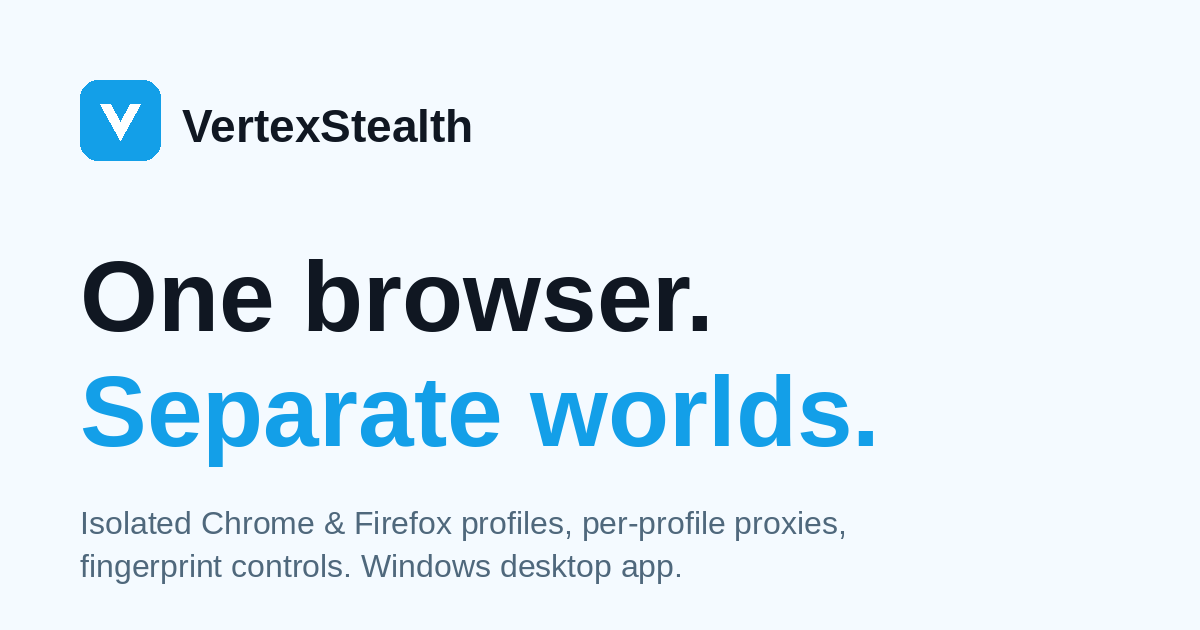
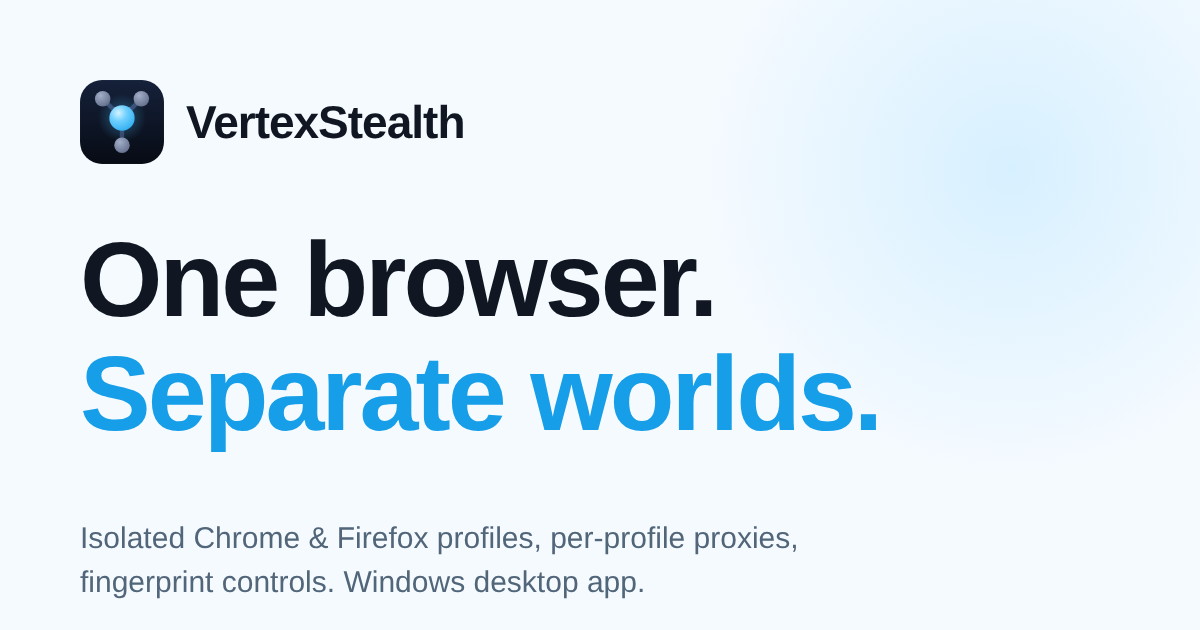
Add files via upload

diff --git a/src/styles.css b/src/styles.css
@@ -1,5 +1,5 @@
 :root{color-scheme:light;--ink:#101722;--muted:#5d6a7c;--muted2:#7b8798;--blue:#169ee8;--blue2:#0875c9;--pale:#eaf7ff;--pale2:#f4faff;--line:#dfe8f0;--white:#fff;--black:#090d14;--green:#13886d;--shadow:0 18px 60px rgba(18,55,90,.10);--max:1180px}
-*{box-sizing:border-box}html{scroll-behavior:smooth;scroll-padding-top:88px}body{margin:0;background:#fff;color:var(--ink);font-family:Inter,ui-sans-serif,system-ui,-apple-system,BlinkMacSystemFont,"Segoe UI",sans-serif;line-height:1.55}a{color:inherit;text-decoration:none}button,input{font:inherit}.wrap{width:min(var(--max),calc(100% - 48px));margin:auto}.announcement{background:#101722;color:#dceaf5;font-size:12px;text-align:center;padding:9px 16px}.announcement strong{color:#7dd5ff}.announcement a{margin-left:8px;color:#7dd5ff;font-weight:750}.header{height:76px;position:sticky;top:0;z-index:20;background:rgba(255,255,255,.94);backdrop-filter:blur(16px);border-bottom:1px solid #e7edf3}.nav{height:100%;display:flex;align-items:center;justify-content:space-between;gap:25px}.brand{display:flex;align-items:center;gap:10px;font-size:20px;font-weight:850;letter-spacing:-.7px;white-space:nowrap}.brandmark{height:36px;width:36px;display:grid;place-items:center;border-radius:11px;color:#fff;background:linear-gradient(140deg,#35c2ff,#0876cb);box-shadow:0 6px 15px #168fd533;font-weight:900}.brandname span{color:var(--blue2)}.links{display:flex;align-items:center;gap:27px;color:#3d4a5c;font-size:13px;font-weight:650}.links a:hover,.footer a:hover{color:var(--blue2)}.navright{display:flex;align-items:center;gap:15px;font-size:13px;font-weight:750}.login{color:#36465a}.btn{display:inline-flex;align-items:center;justify-content:center;gap:9px;padding:13px 18px;border-radius:10px;border:1px solid transparent;font-size:13px;font-weight:800;transition:.2s;cursor:pointer;white-space:nowrap}.btn:hover{transform:translateY(-2px)}.primary{color:#fff;background:linear-gradient(120deg,#20b7f5,#0875c9);box-shadow:0 8px 22px #148edb2b}.primary:hover{filter:brightness(1.04)}.outline{background:#fff;border-color:#cddbe8;color:#1c2b3b}.outline:hover{border-color:#78bfea;background:#f8fcff}.menu{display:none;border:1px solid var(--line);background:white;border-radius:9px;padding:8px 11px}
+*{box-sizing:border-box}html{scroll-behavior:smooth;scroll-padding-top:88px}body{margin:0;background:#fff;color:var(--ink);font-family:Inter,ui-sans-serif,system-ui,-apple-system,BlinkMacSystemFont,"Segoe UI",sans-serif;line-height:1.55}a{color:inherit;text-decoration:none}button,input{font:inherit}.wrap{width:min(var(--max),calc(100% - 48px));margin:auto}.announcement{background:#101722;color:#dceaf5;font-size:12px;text-align:center;padding:9px 16px}.announcement strong{color:#7dd5ff}.announcement a{margin-left:8px;color:#7dd5ff;font-weight:750}.header{height:76px;position:sticky;top:0;z-index:20;background:rgba(255,255,255,.94);backdrop-filter:blur(16px);border-bottom:1px solid #e7edf3}.nav{height:100%;display:flex;align-items:center;justify-content:space-between;gap:25px}.brand{display:flex;align-items:center;gap:10px;font-size:20px;font-weight:850;letter-spacing:-.7px;white-space:nowrap}.brandmark{height:36px;width:36px;display:block;border-radius:11px;box-shadow:0 6px 15px #0b182a33;overflow:hidden;flex:0 0 auto}.brandmark img{display:block;width:100%;height:100%}.brandname span{color:var(--blue2)}.links{display:flex;align-items:center;gap:27px;color:#3d4a5c;font-size:13px;font-weight:650}.links a:hover,.footer a:hover{color:var(--blue2)}.navright{display:flex;align-items:center;gap:15px;font-size:13px;font-weight:750}.login{color:#36465a}.btn{display:inline-flex;align-items:center;justify-content:center;gap:9px;padding:13px 18px;border-radius:10px;border:1px solid transparent;font-size:13px;font-weight:800;transition:.2s;cursor:pointer;white-space:nowrap}.btn:hover{transform:translateY(-2px)}.primary{color:#fff;background:linear-gradient(120deg,#20b7f5,#0875c9);box-shadow:0 8px 22px #148edb2b}.primary:hover{filter:brightness(1.04)}.outline{background:#fff;border-color:#cddbe8;color:#1c2b3b}.outline:hover{border-color:#78bfea;background:#f8fcff}.menu{display:none;border:1px solid var(--line);background:white;border-radius:9px;padding:8px 11px}
 .hero{position:relative;overflow:hidden;padding:76px 0 62px;background:radial-gradient(ellipse at 80% 30%,#d8f2ff 0,transparent 43%),linear-gradient(180deg,#f7fbff 0%,#fff 100%)}.hero-grid{display:grid;grid-template-columns:1.02fr .98fr;gap:38px;align-items:center}.eyebrow{display:inline-flex;align-items:center;gap:8px;border-radius:99px;padding:7px 12px;background:#e5f6ff;border:1px solid #c5eaff;color:#0875bb;text-transform:uppercase;font-size:10px;letter-spacing:.13em;font-weight:900}.pulse{width:7px;height:7px;background:#1bb58b;border-radius:50%;box-shadow:0 0 0 4px #1bb58b18}h1{font-size:clamp(43px,5vw,67px);letter-spacing:-.065em;line-height:1.02;margin:22px 0 22px;max-width:650px}h1 .blue{color:#0785d2}.lead{max-width:590px;color:#566579;font-size:17px;line-height:1.8}.actions{display:flex;gap:12px;flex-wrap:wrap;margin:28px 0 17px}.fineprint{font-size:11px;color:#78879a}.hero-proof{display:flex;gap:18px;flex-wrap:wrap;margin-top:25px;color:#596a7e;font-size:11px}.proof-item{display:flex;align-items:center;gap:7px}.check{color:#168b70;font-weight:900}.mock-area{position:relative;min-height:450px;display:grid;place-items:center}.orb{position:absolute;width:380px;height:380px;border-radius:50%;background:radial-gradient(circle,#bcecff 0%,#dff6ff 45%,transparent 72%)}.app{position:relative;width:100%;max-width:550px;border:1px solid #d4e2ee;background:#fff;border-radius:16px;box-shadow:0 32px 80px #1e4f741c;overflow:hidden;transform:rotateY(-2deg) rotateX(1deg)}.appbar{height:47px;display:flex;align-items:center;gap:7px;padding:0 15px;border-bottom:1px solid #e6edf4;background:#fbfdff}.dot{width:7px;height:7px;background:#d0dbe5;border-radius:50%}.apptitle{font-size:10px;color:#6b7b8e;margin-left:8px;font-weight:750;letter-spacing:.07em}.appbody{display:grid;grid-template-columns:145px 1fr;min-height:300px}.sidebar{padding:17px 10px;background:#f8fbfe;border-right:1px solid #e8eef4}.side-label{font-size:9px;text-transform:uppercase;letter-spacing:.1em;color:#96a3b2;font-weight:850;margin:0 8px 10px}.sideitem{display:flex;align-items:center;gap:8px;font-size:10px;color:#6d7c8e;padding:9px 8px;border-radius:7px;margin-bottom:3px}.sideitem.active{background:#e4f5ff;color:#0876bd;font-weight:800}.sideicon{height:17px;width:17px;display:grid;place-items:center;border-radius:5px;background:#e8eef5;color:#63778b;font-size:10px}.sideitem.active .sideicon{background:#c5eaff;color:#0876bd}.work{padding:17px 15px}.workhead{display:flex;justify-content:space-between;align-items:center;margin-bottom:15px;gap:10px}.workhead strong{font-size:13px;letter-spacing:-.2px}.small-btn{font-size:9px;padding:7px 9px;border-radius:6px;background:#0e95df;color:white;font-weight:800}.filter{display:flex;gap:5px;margin-bottom:11px}.filter span{font-size:9px;padding:5px 8px;border-radius:6px;background:#f3f7fa;color:#718196}.filter span:first-child{background:#e5f5ff;color:#0878bf;font-weight:800}.profrow{display:grid;grid-template-columns:25px 1fr auto;align-items:center;gap:8px;padding:10px 8px;border:1px solid #e6edf3;border-radius:8px;margin-bottom:7px}.proficon{height:25px;width:25px;display:grid;place-items:center;border-radius:7px;background:#e2f5ff;color:#0781c8;font-size:10px;font-weight:900}.proficon.purple{background:#f0eaff;color:#8161c7}.proficon.green{background:#e1f8ef;color:#138b68}.profname{font-size:10px;font-weight:800;display:block}.profmeta{font-size:8px;color:#8a98a8;display:block;margin-top:2px}.status{font-size:8px;border-radius:99px;padding:4px 6px;background:#e5f8f0;color:#138365;font-weight:800}.appfoot{border-top:1px solid #e6edf3;padding:10px 14px;display:flex;justify-content:space-between;color:#8795a5;font-size:9px}.floating{position:absolute;right:-8px;bottom:20px;background:#fff;border:1px solid #d7e7f3;border-radius:12px;padding:13px 15px;box-shadow:0 14px 35px #234b681b;font-size:10px}.floating b{display:block;font-size:12px;margin-bottom:3px}.floating span{color:#178b6c}
 .logobar{border-block:1px solid #e9eff4;padding:22px 0;background:white}.logobar .wrap{display:flex;justify-content:space-between;align-items:center;gap:22px;flex-wrap:wrap}.logotext{font-size:11px;color:#8290a0}.logo-pill{display:flex;align-items:center;gap:8px;color:#526174;font-size:12px;font-weight:750}.logo-symbol{height:25px;width:25px;display:grid;place-items:center;border:1px solid #dbe7f0;background:#f6fbff;color:#168dd0;border-radius:7px;font-size:12px}
 .section{padding:88px 0}.section-head{text-align:center;max-width:740px;margin:0 auto 43px}.kicker{font-size:11px;letter-spacing:.16em;text-transform:uppercase;color:#087fc5;font-weight:900}.section h2{font-size:clamp(31px,4vw,46px);letter-spacing:-.055em;line-height:1.1;margin:12px 0 15px}.section-head p{font-size:15px;color:#667588;line-height:1.8;margin:0}.features{display:grid;grid-template-columns:repeat(3,1fr);gap:17px}.feature{border:1px solid #e0e9f1;border-radius:15px;padding:25px;background:linear-gradient(150deg,#fff,#f9fcff);min-height:218px;transition:.2s}.feature:hover{border-color:#a9dcf7;box-shadow:0 12px 32px #1d67920c;transform:translateY(-3px)}.feature-icon{height:43px;width:43px;border-radius:12px;background:#e7f6ff;color:#0787d1;display:grid;place-items:center;font-size:21px;font-weight:800;margin-bottom:20px}.feature h3{font-size:16px;margin:0 0 8px;letter-spacing:-.2px}.feature p{font-size:13px;color:#6b798b;line-height:1.75;margin:0}.textlink{display:inline-flex;align-items:center;gap:7px;color:#087fc5;font-weight:850;font-size:12px;margin-top:18px}.pale{background:#f5faff;border-block:1px solid #e6f0f7}.split{display:grid;grid-template-columns:1fr 1fr;align-items:center;gap:55px}.split .section-head{text-align:left;margin:0 0 20px}.split-copy{color:#667588;font-size:15px;line-height:1.85}.bullets{list-style:none;padding:0;margin:23px 0 0;display:grid;gap:13px}.bullets li{display:flex;gap:10px;font-size:13px;color:#435267}.tick{width:21px;height:21px;flex:0 0 21px;border-radius:50%;display:grid;place-items:center;background:#def7ed;color:#0e8b69;font-size:11px;font-weight:900}.settings-card{border:1px solid #d9e5ef;border-radius:17px;box-shadow:var(--shadow);background:#fff;overflow:hidden}.settings-head{padding:18px 20px;border-bottom:1px solid #e6edf3;display:flex;justify-content:space-between;align-items:center}.settings-head strong{font-size:13px}.labelpill{font-size:9px;color:#0879bd;background:#e9f7ff;padding:5px 8px;border-radius:99px;font-weight:900}.setting-row{display:flex;justify-content:space-between;gap:20px;padding:15px 20px;border-bottom:1px solid #eef2f6;font-size:11px}.setting-row span{color:#788698}.setting-row b{text-align:right;font-weight:750}.setting-row:last-of-type{border-bottom:0}.settings-note{margin:15px;padding:12px;border-radius:9px;background:#f1faff;color:#597286;font-size:10px;line-height:1.6}

diff --git a/scripts/build.js b/scripts/build.js
@@ -112,7 +112,7 @@ const header = `<a class="skip" href="#top">Skip to content</a>
 <div class="announcement">A focused workspace for browser profile management. <strong>Meet VertexStealth.</strong> <a href="/features">Explore the platform →</a></div>
 <header class="header">
  <div class="wrap nav">
-  <a class="brand" href="/" aria-label="VertexStealth home"><span class="brandmark">V</span><span class="brandname">Vertex<span>Stealth</span></span></a>
+  <a class="brand" href="/" aria-label="VertexStealth home"><span class="brandmark"><img src="/logo.svg" alt="" width="36" height="36"></span><span class="brandname">Vertex<span>Stealth</span></span></a>
   <button class="menu" id="menu" aria-expanded="false" aria-controls="links">Menu</button>
   <nav class="links" id="links" aria-label="Main navigation">
    <a href="/features">Features</a><a href="/antidetect-browser">Antidetect browser</a><a href="/multi-profile-management">Multi-profile</a><a href="/pricing">Pricing</a><a href="/faq">FAQ</a><a href="/blog">Blog</a><a class="m-only" href="/download">Download</a><a class="m-only" href="/login" data-auth-link>Sign in</a>
@@ -121,7 +121,7 @@ const header = `<a class="skip" href="#top">Skip to content</a>
  </div>
 </header>`;
 
-const footer = `<footer class="footer"><div class="wrap"><div class="footer-top"><div class="footer-brand"><a class="brand" href="/"><span class="brandmark">V</span><span class="brandname">Vertex<span>Stealth</span></span></a><p>An antidetect browser and multi-profile manager: isolated Chrome and Firefox profiles with per-profile proxies and fingerprint settings, in one Windows desktop workspace.</p></div><div class="footer-cols"><div class="footer-col"><strong>Product</strong><a href="/features">Features</a><a href="/antidetect-browser">Antidetect browser</a><a href="/multi-profile-management">Multi-profile management</a><a href="/pricing">Pricing</a><a href="/download">Download</a></div><div class="footer-col"><strong>Learn</strong><a href="/product-preview">Product preview</a><a href="/how-it-works">How it works</a><a href="/use-cases">Use cases</a><a href="/faq">FAQ</a><a href="/blog">Blog</a><a href="/docs">Documentation</a><a href="/system-requirements">System requirements</a></div><div class="footer-col"><strong>Company</strong><a href="/about">About</a><a href="/partners-program">Partner program</a><a href="/security">Security &amp; privacy</a><a href="/acceptable-use">Acceptable use</a><a href="${esc(mail('VertexStealth support'))}">Contact &amp; support</a><a href="/terms">Terms of Service</a><a href="/privacy">Privacy Policy</a><a href="/eula">EULA</a></div></div></div><div class="footer-bottom"><span>© <span id="year">${new Date().getFullYear()}</span> ${esc(cfg.company)}. All rights reserved.</span><span>Product mockups are illustrative.</span></div></div></footer>`;
+const footer = `<footer class="footer"><div class="wrap"><div class="footer-top"><div class="footer-brand"><a class="brand" href="/"><span class="brandmark"><img src="/logo.svg" alt="" width="36" height="36"></span><span class="brandname">Vertex<span>Stealth</span></span></a><p>An antidetect browser and multi-profile manager: isolated Chrome and Firefox profiles with per-profile proxies and fingerprint settings, in one Windows desktop workspace.</p></div><div class="footer-cols"><div class="footer-col"><strong>Product</strong><a href="/features">Features</a><a href="/antidetect-browser">Antidetect browser</a><a href="/multi-profile-management">Multi-profile management</a><a href="/pricing">Pricing</a><a href="/download">Download</a></div><div class="footer-col"><strong>Learn</strong><a href="/product-preview">Product preview</a><a href="/how-it-works">How it works</a><a href="/use-cases">Use cases</a><a href="/faq">FAQ</a><a href="/blog">Blog</a><a href="/docs">Documentation</a><a href="/system-requirements">System requirements</a></div><div class="footer-col"><strong>Company</strong><a href="/about">About</a><a href="/partners-program">Partner program</a><a href="/security">Security &amp; privacy</a><a href="/acceptable-use">Acceptable use</a><a href="${esc(mail('VertexStealth support'))}">Contact &amp; support</a><a href="/terms">Terms of Service</a><a href="/privacy">Privacy Policy</a><a href="/eula">EULA</a></div></div></div><div class="footer-bottom"><span>© <span id="year">${new Date().getFullYear()}</span> ${esc(cfg.company)}. All rights reserved.</span><span>Product mockups are illustrative.</span></div></div></footer>`;
 
 
 // ---------- structured data ----------
@@ -147,7 +147,7 @@ function page({ file, title, desc, canonicalPath, main, nodes = [], crumb = null
   const robots = index && isProd ? 'index,follow,max-image-preview:large' : 'noindex,nofollow';
   const og = `${siteUrl}/og-image.png`;
   const graph = [
-    { '@type': 'Organization', '@id': siteUrl + '/#org', name: cfg.company, url: siteUrl + '/', email: cfg.email, logo: siteUrl + '/favicon.svg' },
+    { '@type': 'Organization', '@id': siteUrl + '/#org', name: cfg.company, url: siteUrl + '/', email: cfg.email, logo: siteUrl + '/icon-512.png' },
     { '@type': 'WebSite', '@id': siteUrl + '/#website', url: siteUrl + '/', name: cfg.name, inLanguage: 'en', publisher: { '@id': siteUrl + '/#org' } },
     { '@type': 'WebPage', '@id': url + '#webpage', url, name: title, description: desc, inLanguage: 'en', dateModified: buildDate, isPartOf: { '@id': siteUrl + '/#website' } },
     ...nodes,
@@ -165,6 +165,9 @@ function page({ file, title, desc, canonicalPath, main, nodes = [], crumb = null
 <meta name="theme-color" content="#f7fbff">
 <link rel="canonical" href="${esc(url)}">
 <link rel="icon" href="/favicon.svg" type="image/svg+xml">
+<link rel="icon" href="/favicon.ico" sizes="48x48">
+<link rel="icon" href="/favicon-32.png" sizes="32x32" type="image/png">
+<link rel="apple-touch-icon" href="/apple-touch-icon.png">
 <meta property="og:type" content="website">
 <meta property="og:site_name" content="${esc(cfg.name)}">
 <meta property="og:title" content="${esc(title)}">
@@ -535,13 +538,13 @@ if (adminKey && partnerSbUrl && backendLive) {
     file: 'partner-admin.html', title: 'Partner admin — VertexStealth', desc: 'Partner program administration.', canonicalPath: '/partner-admin', index: false, bare: true, scripts: [partnerAdminJs], styles: [partnersCss], pageId: 'partner-admin',
     main: `<div id="padmin" data-sb="${esc(partnerSbUrl)}" data-anon="${esc(adminKey)}" data-fn="${esc(fnUrl)}">
 <div class="pa-login" id="login"><div class="pa-login-card">
-<div class="pa-brand"><i>V</i><span>Vertex<span>Stealth</span></span></div>
+<div class="pa-brand"><img src="/logo.svg" alt="" width="34" height="34"><span>Vertex<span>Stealth</span></span></div>
 <h1>Partner admin</h1><p>Sign in with your admin account to review applications and manage partners.</p>
 <form class="pp-form" id="login-form"><label><span>Admin email</span><input id="a-email" type="email" required autocomplete="username" placeholder="Your admin email"></label><label><span>Password</span><input id="a-pass" type="password" required autocomplete="current-password"></label><button class="btn primary" type="submit">Sign in</button><p class="pp-status" id="login-status" role="status"></p></form>
 </div></div>
 <div class="pa" id="app" hidden>
 <aside class="pa-side">
-<div class="pa-brand"><i>V</i><span>Vertex<span>Stealth</span></span></div>
+<div class="pa-brand"><img src="/logo.svg" alt="" width="34" height="34"><span>Vertex<span>Stealth</span></span></div>
 <div class="pa-eyebrow">Partner program</div>
 <button class="pa-nav on" data-tab="applications" type="button"><svg viewBox="0 0 24 24" aria-hidden="true"><path d="M4 4h16v13H8l-4 4z"/><path d="M8 9h8M8 13h5"/></svg>Applications<span class="pa-count" id="pending-count" hidden></span></button>
 <button class="pa-nav" data-tab="partners" type="button"><svg viewBox="0 0 24 24" aria-hidden="true"><circle cx="9" cy="8" r="3.5"/><path d="M2.5 20a6.5 6.5 0 0113 0"/><circle cx="17.5" cy="9" r="2.5"/><path d="M17 14.5a5 5 0 014.5 5"/></svg>Partners</button>

diff --git a/api/_lib/templates.js b/api/_lib/templates.js
@@ -63,7 +63,7 @@ function layout({ subject, bodyHtml, category, unsubscribeUrl, supportEmail, sit
     : 'You are receiving this service message because you have a VertexStealth account.';
   return `<!doctype html><html><body style="margin:0;background:#f4f7fb;font-family:Segoe UI,Arial,sans-serif;color:#1b2a3a">
 <div style="max-width:600px;margin:0 auto;padding:28px 16px">
-<div style="font-size:20px;font-weight:800;letter-spacing:-.03em;margin:0 0 18px"><span style="display:inline-block;background:#169ee8;color:#fff;border-radius:8px;padding:2px 9px;margin-right:8px">V</span>Vertex<span style="color:#169ee8">Stealth</span></div>
+<div style="font-size:20px;font-weight:800;letter-spacing:-.03em;margin:0 0 18px"><img src="${esc(siteUrl)}/icon-192.png" width="30" height="30" alt="" style="vertical-align:middle;border-radius:8px;margin-right:8px">Vertex<span style="color:#169ee8">Stealth</span></div>
 <div style="background:#fff;border:1px solid #dfe8f0;border-radius:14px;padding:28px;font-size:15px;line-height:1.6">${bodyHtml}</div>
 <p style="font-size:12px;color:#6b798b;margin:18px 4px 0;line-height:1.6">${foot}<br>Vertex Tech Solutions · <a href="mailto:${esc(supportEmail)}" style="color:#6b798b">${esc(supportEmail)}</a> · <a href="${esc(siteUrl)}" style="color:#6b798b">${esc(siteUrl.replace(/^https?:\/\//, ''))}</a></p>
 </div></body></html>`;

diff --git a/src/partners.css b/src/partners.css
@@ -123,7 +123,7 @@ body[data-page=partner-admin]{background:#f2f6fa;margin:0;color:#14202e}
 .pa-login-card h1{font-size:26px;letter-spacing:-.04em;margin:0 0 6px}
 .pa-login-card>p{margin:0 0 24px;font-size:14px;color:var(--pp-muted)}
 .pa-brand{display:flex;align-items:center;gap:10px;font-weight:850;font-size:18px;letter-spacing:-.04em}
-.pa-brand i{display:grid;place-items:center;width:34px;height:34px;border-radius:10px;font-style:normal;font-size:16px;color:#fff;background:linear-gradient(135deg,#27b3f5,#0864b0)}
+.pa-brand img{display:block;width:34px;height:34px;border-radius:10px}
 .pa-brand span span{color:var(--pp-blue)}
 .pa{display:grid;grid-template-columns:248px minmax(0,1fr);min-height:100vh}
 .pa[hidden],.pa-login[hidden]{display:none}

diff --git a/partners-backend/supabase/functions/_shared/email.ts b/partners-backend/supabase/functions/_shared/email.ts
@@ -31,6 +31,7 @@ export async function sendEmail(m: Mail): Promise<boolean> {
 
 const shell = (title: string, body: string) =>
   `<div style="font-family:Arial,Helvetica,sans-serif;max-width:560px;margin:0 auto;color:#1a2433;line-height:1.6">
+<p style="margin:0 0 16px"><img src="${siteUrl()}/icon-192.png" width="34" height="34" alt="VertexStealth" style="vertical-align:middle;border-radius:9px"> <b style="font-size:17px;vertical-align:middle">VertexStealth</b></p>
 <h2 style="margin:0 0 14px">${esc(title)}</h2>${body}
 <p style="color:#7a8898;font-size:12px;margin-top:28px">VertexStealth Partner Program</p></div>`;
 
